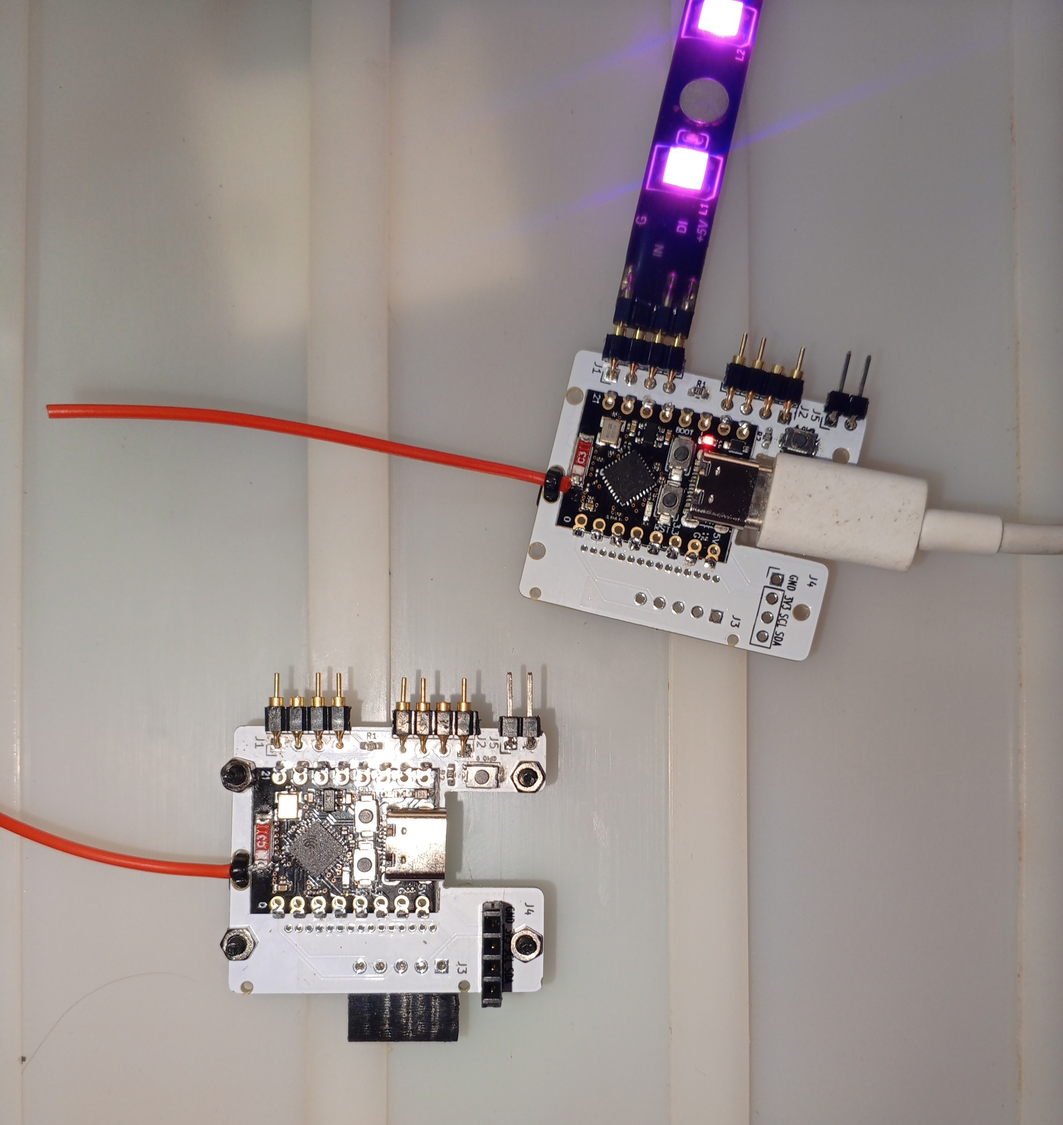
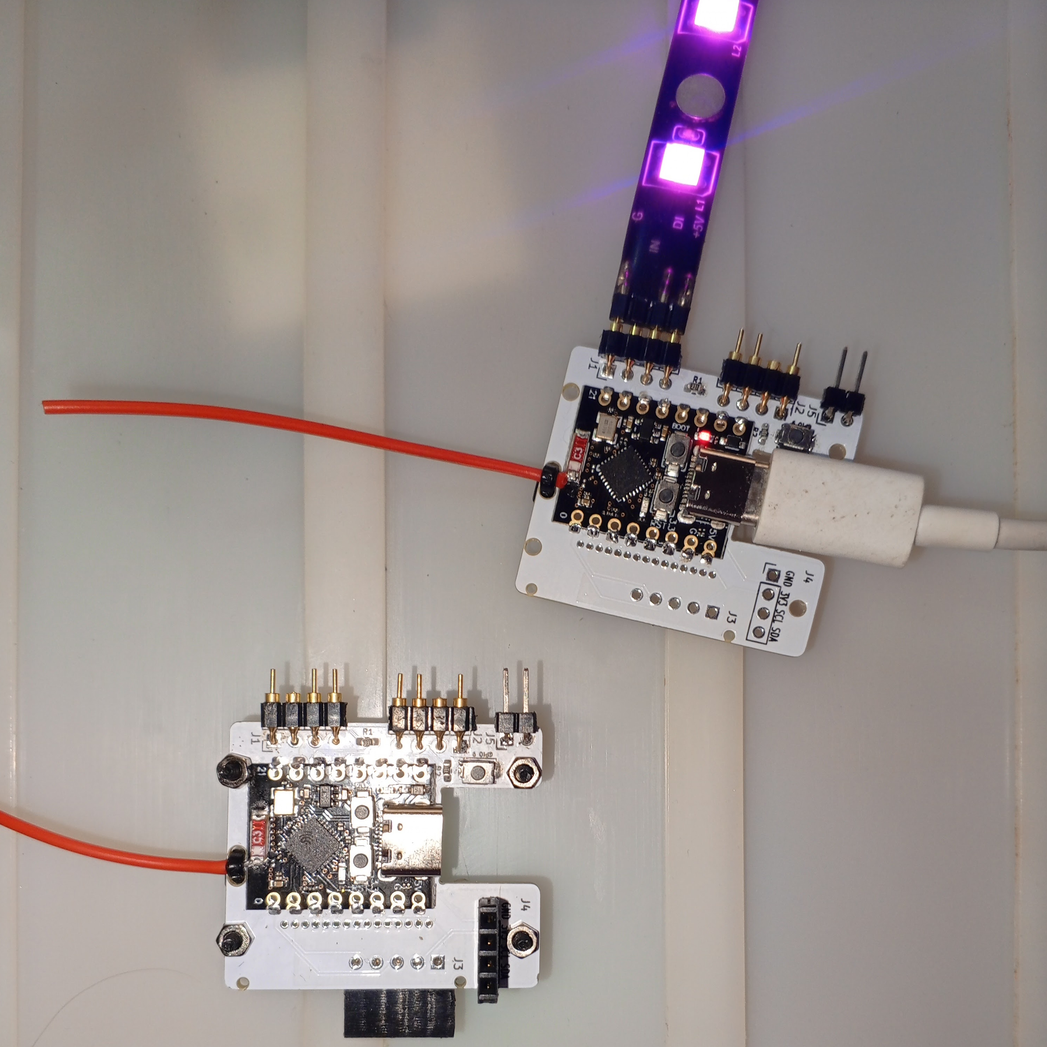
Deployed d89a830 with MkDocs version: 1.6.1

Changed region(s): [[0.0, 0.0, 1.0, 1.0]]

diff --git a/index.html b/index.html
@@ -192,26 +192,26 @@
 <div style="display: flex; justify-content: space-between; align-items: center;">
 
   <div style="flex: 1; text-align: center; margin: 0 10px;">
-    <img src="images/IMG_20241215_060320_693.jpg" alt="Imagen 2" style="max-width: 70%; height: auto;width: auto;"> 
+    <img src="images/IMG_20241215_060320_693.jpg" alt="Imagen 2" style="max-width: 90%; height: auto;width: auto;"> 
   </div>
   <div style="flex: 1; text-align: center; margin: 0 10px;">
-    <img src="images/IMG_20241210_113155_811.jpg" alt="Imagen 3" style="max-width: 70%; height: auto;width: auto;">
+    <img src="images/IMG_20241210_113155_811.jpg" alt="Imagen 3" style="max-width: 90%; height: auto;width: auto;">
   </div>
 </div>
 
 <div style="display: flex; justify-content: space-between; align-items: center;">
 
   <div style="flex: 1; text-align: center; margin: 0 10px;">
-    <img src="images/IMG_20241215_121028_459.jpg" alt="Imagen 2" style="max-width: 70%; height: auto;width: auto;">
+    <img src="images/IMG_20241215_121028_459.jpg" alt="Imagen 2" style="max-width: 90%; height: auto;width: auto;">
   </div>
   <div style="flex: 1; text-align: center; margin: 0 10px;">
-    <img src="images/IMG_20241210_192843_833.jpg" alt="Imagen 3" style="max-width: 70%; height: auto;width: auto;">
+    <img src="images/IMG_20241210_192843_833.jpg" alt="Imagen 3" style="max-width: 90%; height: auto;width: auto;">
   </div>
 </div>
 
 <h2 id="screenshots-capturas-de-pantalla">Screenshots (capturas de pantalla)</h2>
 <div style="flex: 1; text-align: center; margin: 0 10px;">
-    <img src="images/Screenshot_6.jpg" alt="Imagen 1" style="max-width: 80%; height: auto;width: auto;">
+    <img src="images/Screenshot_6.jpg" alt="Imagen 1" style="max-width: 90%; height: auto;width: auto;">
     <p>Menú principal en PC</p>
 </div>
 
@@ -307,5 +307,5 @@
 
 <!--
 MkDocs version : 1.6.1
-Build Date UTC : 2024-12-19 14:40:24.877245+00:00
+Build Date UTC : 2024-12-19 15:38:43.780872+00:00
 -->
